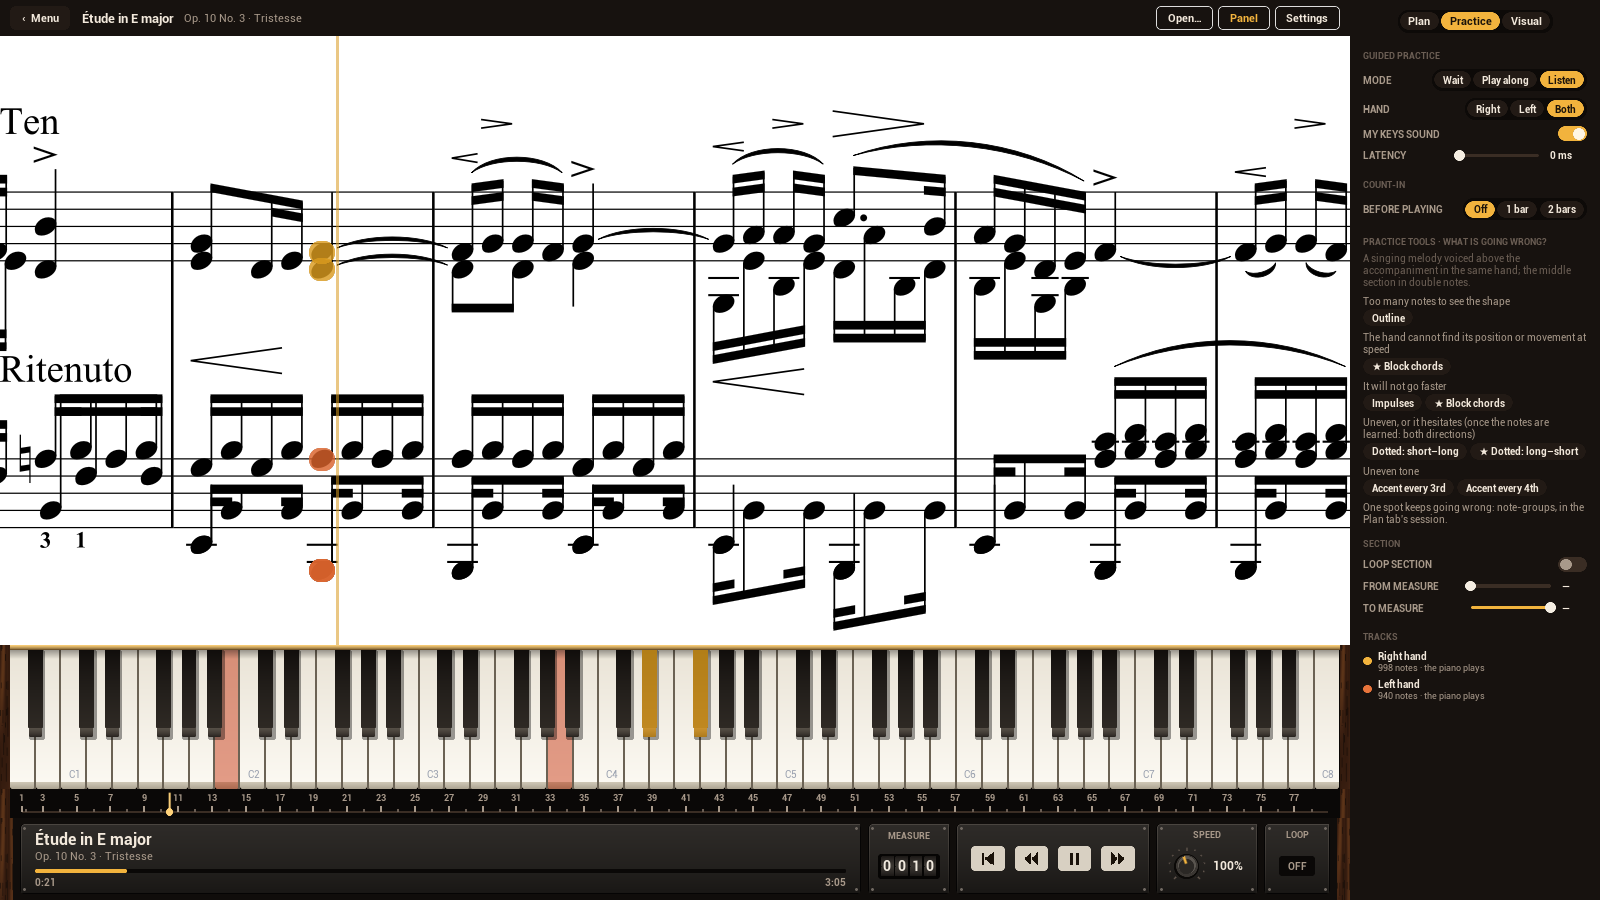
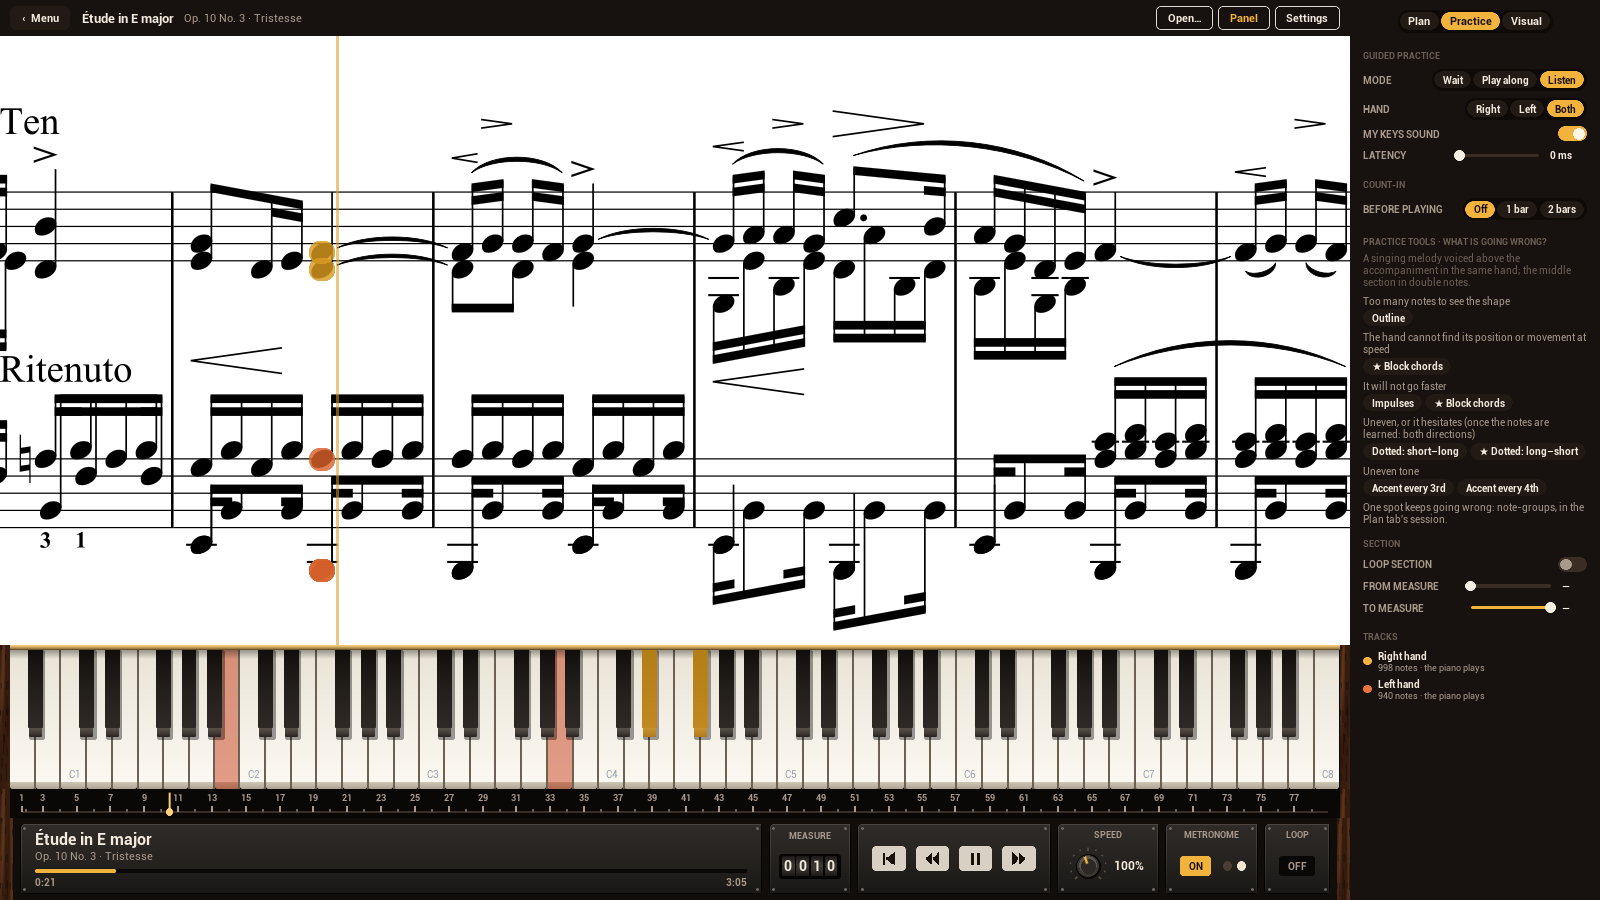
Metronome lights: unlit ones visible on the plate; practice screenshot with the metronome

Changed region(s): [[0.4688, 0.9022, 0.7812, 0.9956]]

diff --git a/Source/PianoTrainer/UI/SPianoTransport.cpp b/Source/PianoTrainer/UI/SPianoTransport.cpp
@@ -287,7 +287,7 @@ TSharedRef<SWidget> SPianoTransport::MetronomeLight(int32 Which)
 	[
 		SNew(SBorder)
 		.BorderImage(PianoStyle::Rounded(FLinearColor::White, 5.5f))
-		.BorderBackgroundColor_Lambda([this, Which, Lit]() { return LitBeat() == Which ? Lit : PianoStyle::Hex(TEXT("2A221C")); })
+		.BorderBackgroundColor_Lambda([this, Which, Lit]() { return LitBeat() == Which ? Lit : PianoStyle::Hex(TEXT("4A3E34")); })
 	];
 }
 
